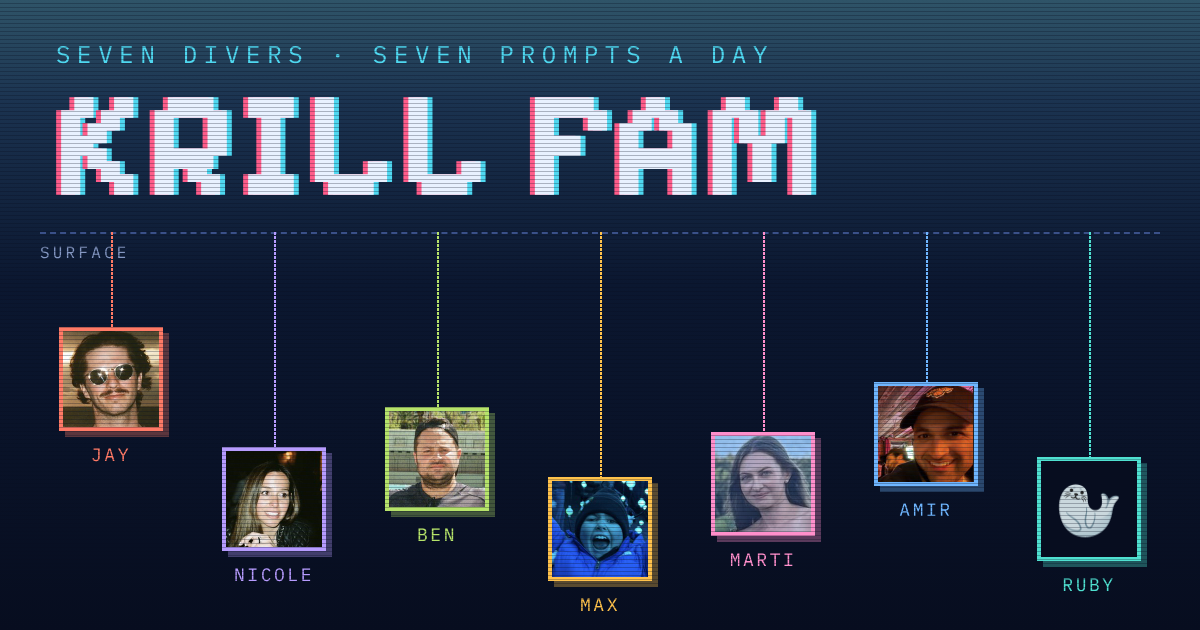
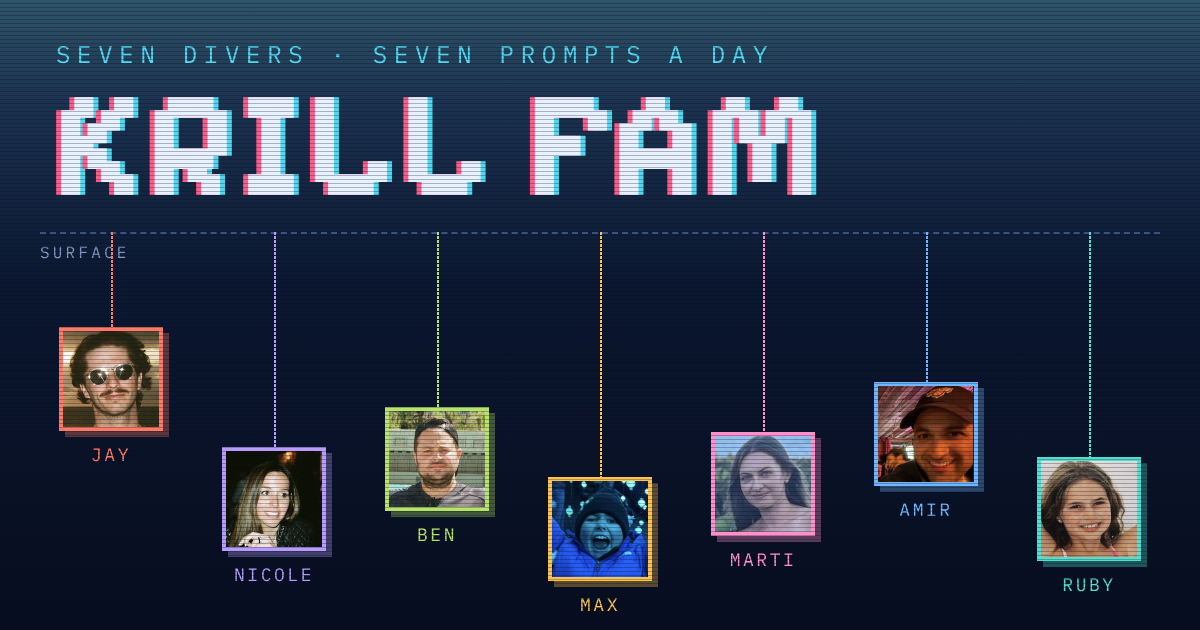
Add Ruby's photo; re-render link preview
Claude-Session: https://claude.ai/code/session_01CWV6Sp5nDrstpFoqGFAjnp

Changed region(s): [[0.8633, 0.7238, 0.9558, 0.9048]]

diff --git a/index.html b/index.html
@@ -201,7 +201,7 @@ td.num{white-space:nowrap}
 <body>
 <div id="app"></div>
 <div id="toast" role="status"></div>
-<script id="state" type="application/json">{"rev":13,"emo":{},"players":[{"id":"jay","name":"Jay","short":"Jay","e":"🦈","img":"faces/jay.jpg","c":"#FF7A66"},{"id":"nicole","name":"Nicole","short":"Nicole","e":"🐙","img":"faces/nicole.jpg","c":"#B79CFF"},{"id":"ben","name":"Ben","short":"Ben","e":"🐢","img":"faces/ben.jpg","c":"#B6E36A"},{"id":"max","name":"Max","short":"Max","e":"🐡","img":"faces/max2.jpg","c":"#FFC24B"},{"id":"marti","name":"Marti","short":"Marti","e":"🦀","img":"faces/marti.jpg","c":"#FF8FCB"},{"id":"amir","name":"Amir","short":"Amir","e":"🐬","img":"faces/amir3.jpg","c":"#6FB6FF"},{"id":"ruby","name":"Ruby","short":"Ruby","e":"🦭","c":"#4FE0D0"}],"days":{"2026-11-11":{"n":119,"prompts":[{"t":"Name a country where at least 50% of people speak English","g":"places"},{"t":"Name a bodily function or biological process","g":"science"},{"t":"Name a one-word animal that starts with T","g":"nature"},{"t":"Name something that has a needle","g":"life"},{"t":"Name an original movie or show from Netflix, Prime Video, etc.","g":"screen"},{"t":"Name a named object in space that's bigger than Earth","g":"science"},{"t":"Name a character from Mario, Zelda, Donkey Kong, etc.","g":"screen"}],"scores":{"amir":{"q":[10,85,60,30,30,10,30]},"jay":{"q":[30,60,30,30,60,10,30]},"ben":{"q":[30,30,60,60,10,10,30]},"max":{"q":[10,0,85,30,0,60,30]},"nicole":{"q":[10,60,10,10,0,30,30]},"marti":{"q":[30,60,10,0,60,10,85]}}},"2026-11-12":{"n":120,"scores":{"jay":{"q":[30,60,30,60,60,30,60]},"marti":{"q":[30,60,30,60,60,30,10]},"nicole":{"q":[30,85,10,30,60,30,30]},"max":{"q":[0,10,30,85,60,60,10]},"ben":{"q":[30,30,30,30,10,60,60]},"amir":{"q":[60,30,30,10,10,30,30]},"ruby":{"q":[10,10,30,85,30,10,10]}},"prompts":[{"t":"Name something you can see in the sky (no living or manmade things)","g":"science"},{"t":"Name a material or product that comes from animals","g":"nature"},{"t":"Name a vegetable smaller than an onion (culinary vegetables)","g":"food"},{"t":"Name a TV game show","g":"screen"},{"t":"Name a dance move (named moves)","g":"music"},{"t":"Name a type of injury (like a sprain, not a sprained ankle)","g":"body"},{"t":"Name a chocolate that has caramel in it","g":"food"}],"closed":true}}}</script>
+<script id="state" type="application/json">{"rev":14,"emo":{},"players":[{"id":"jay","name":"Jay","short":"Jay","e":"🦈","img":"faces/jay.jpg","c":"#FF7A66"},{"id":"nicole","name":"Nicole","short":"Nicole","e":"🐙","img":"faces/nicole.jpg","c":"#B79CFF"},{"id":"ben","name":"Ben","short":"Ben","e":"🐢","img":"faces/ben.jpg","c":"#B6E36A"},{"id":"max","name":"Max","short":"Max","e":"🐡","img":"faces/max2.jpg","c":"#FFC24B"},{"id":"marti","name":"Marti","short":"Marti","e":"🦀","img":"faces/marti.jpg","c":"#FF8FCB"},{"id":"amir","name":"Amir","short":"Amir","e":"🐬","img":"faces/amir3.jpg","c":"#6FB6FF"},{"id":"ruby","name":"Ruby","short":"Ruby","e":"🦭","img":"faces/ruby.jpg","c":"#4FE0D0"}],"days":{"2026-11-11":{"n":119,"prompts":[{"t":"Name a country where at least 50% of people speak English","g":"places"},{"t":"Name a bodily function or biological process","g":"science"},{"t":"Name a one-word animal that starts with T","g":"nature"},{"t":"Name something that has a needle","g":"life"},{"t":"Name an original movie or show from Netflix, Prime Video, etc.","g":"screen"},{"t":"Name a named object in space that's bigger than Earth","g":"science"},{"t":"Name a character from Mario, Zelda, Donkey Kong, etc.","g":"screen"}],"scores":{"amir":{"q":[10,85,60,30,30,10,30]},"jay":{"q":[30,60,30,30,60,10,30]},"ben":{"q":[30,30,60,60,10,10,30]},"max":{"q":[10,0,85,30,0,60,30]},"nicole":{"q":[10,60,10,10,0,30,30]},"marti":{"q":[30,60,10,0,60,10,85]}}},"2026-11-12":{"n":120,"scores":{"jay":{"q":[30,60,30,60,60,30,60]},"marti":{"q":[30,60,30,60,60,30,10]},"nicole":{"q":[30,85,10,30,60,30,30]},"max":{"q":[0,10,30,85,60,60,10]},"ben":{"q":[30,30,30,30,10,60,60]},"amir":{"q":[60,30,30,10,10,30,30]},"ruby":{"q":[10,10,30,85,30,10,10]}},"prompts":[{"t":"Name something you can see in the sky (no living or manmade things)","g":"science"},{"t":"Name a material or product that comes from animals","g":"nature"},{"t":"Name a vegetable smaller than an onion (culinary vegetables)","g":"food"},{"t":"Name a TV game show","g":"screen"},{"t":"Name a dance move (named moves)","g":"music"},{"t":"Name a type of injury (like a sprain, not a sprained ankle)","g":"body"},{"t":"Name a chocolate that has caramel in it","g":"food"}],"closed":true}}}</script>
 <script id="js">
 (()=>{"use strict";
 const TIERS=[{p:0,n:'Miss',e:'⬛',c:'#5A6C96'},{p:10,n:'Plankton',e:'🫧',c:'#B9C9E4'},{p:15,n:'Too Clever',e:'',t:'TC',c:'#FF9F45'},{p:30,n:'Schooler',e:'🐟',c:'#4FD8F0'},{p:60,n:'Rare',e:'🦑',c:'#FF4D5E'},{p:85,n:'Deep Cut',e:'🏮',c:'#9B8CFF'},{p:100,n:'One in a Krillion',e:'🦐',t:'K★',c:'#FFD23F'}];
